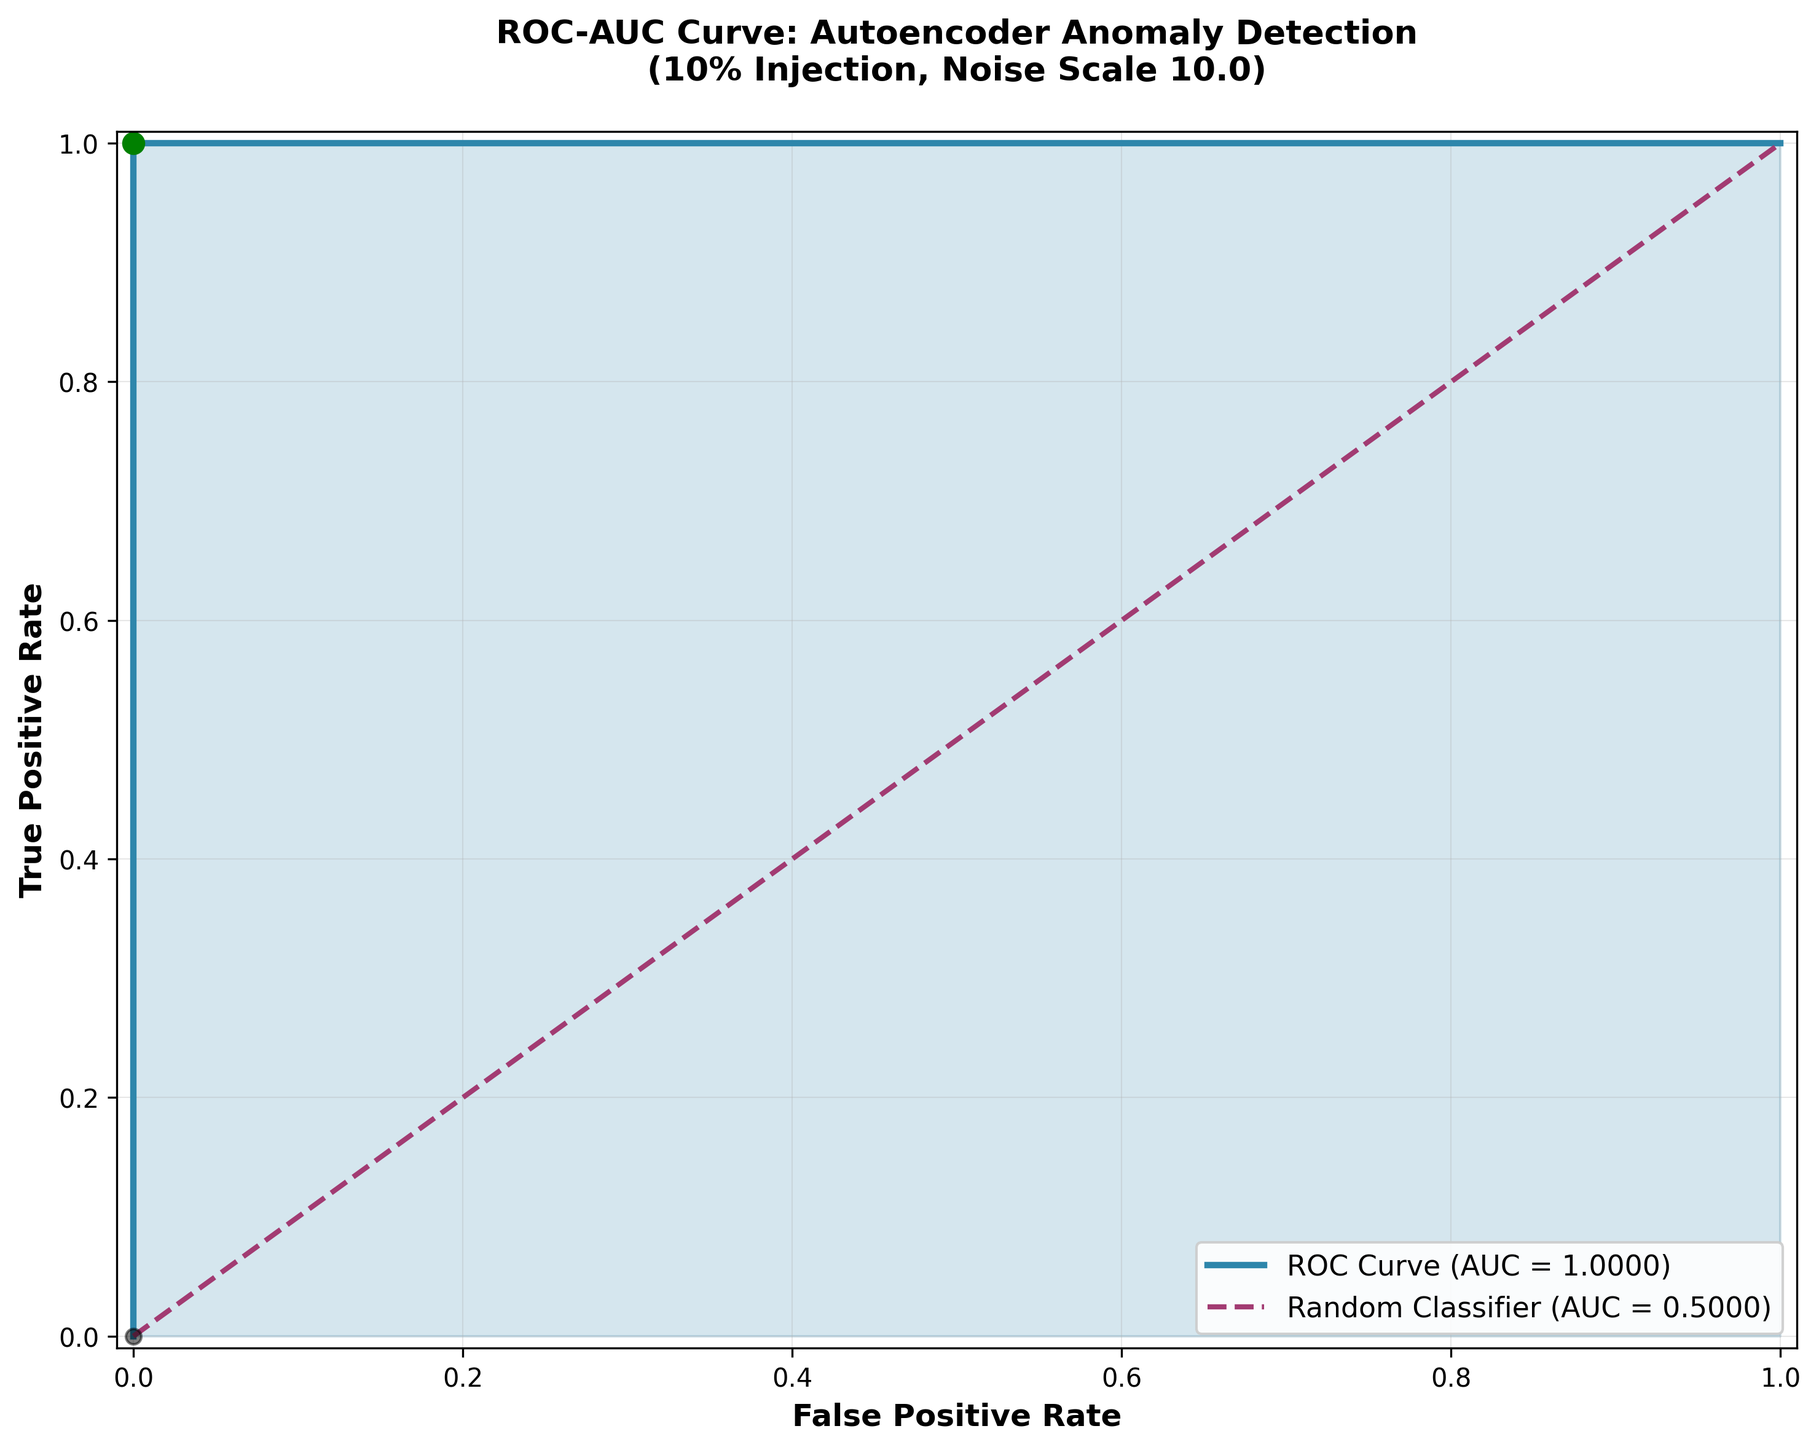
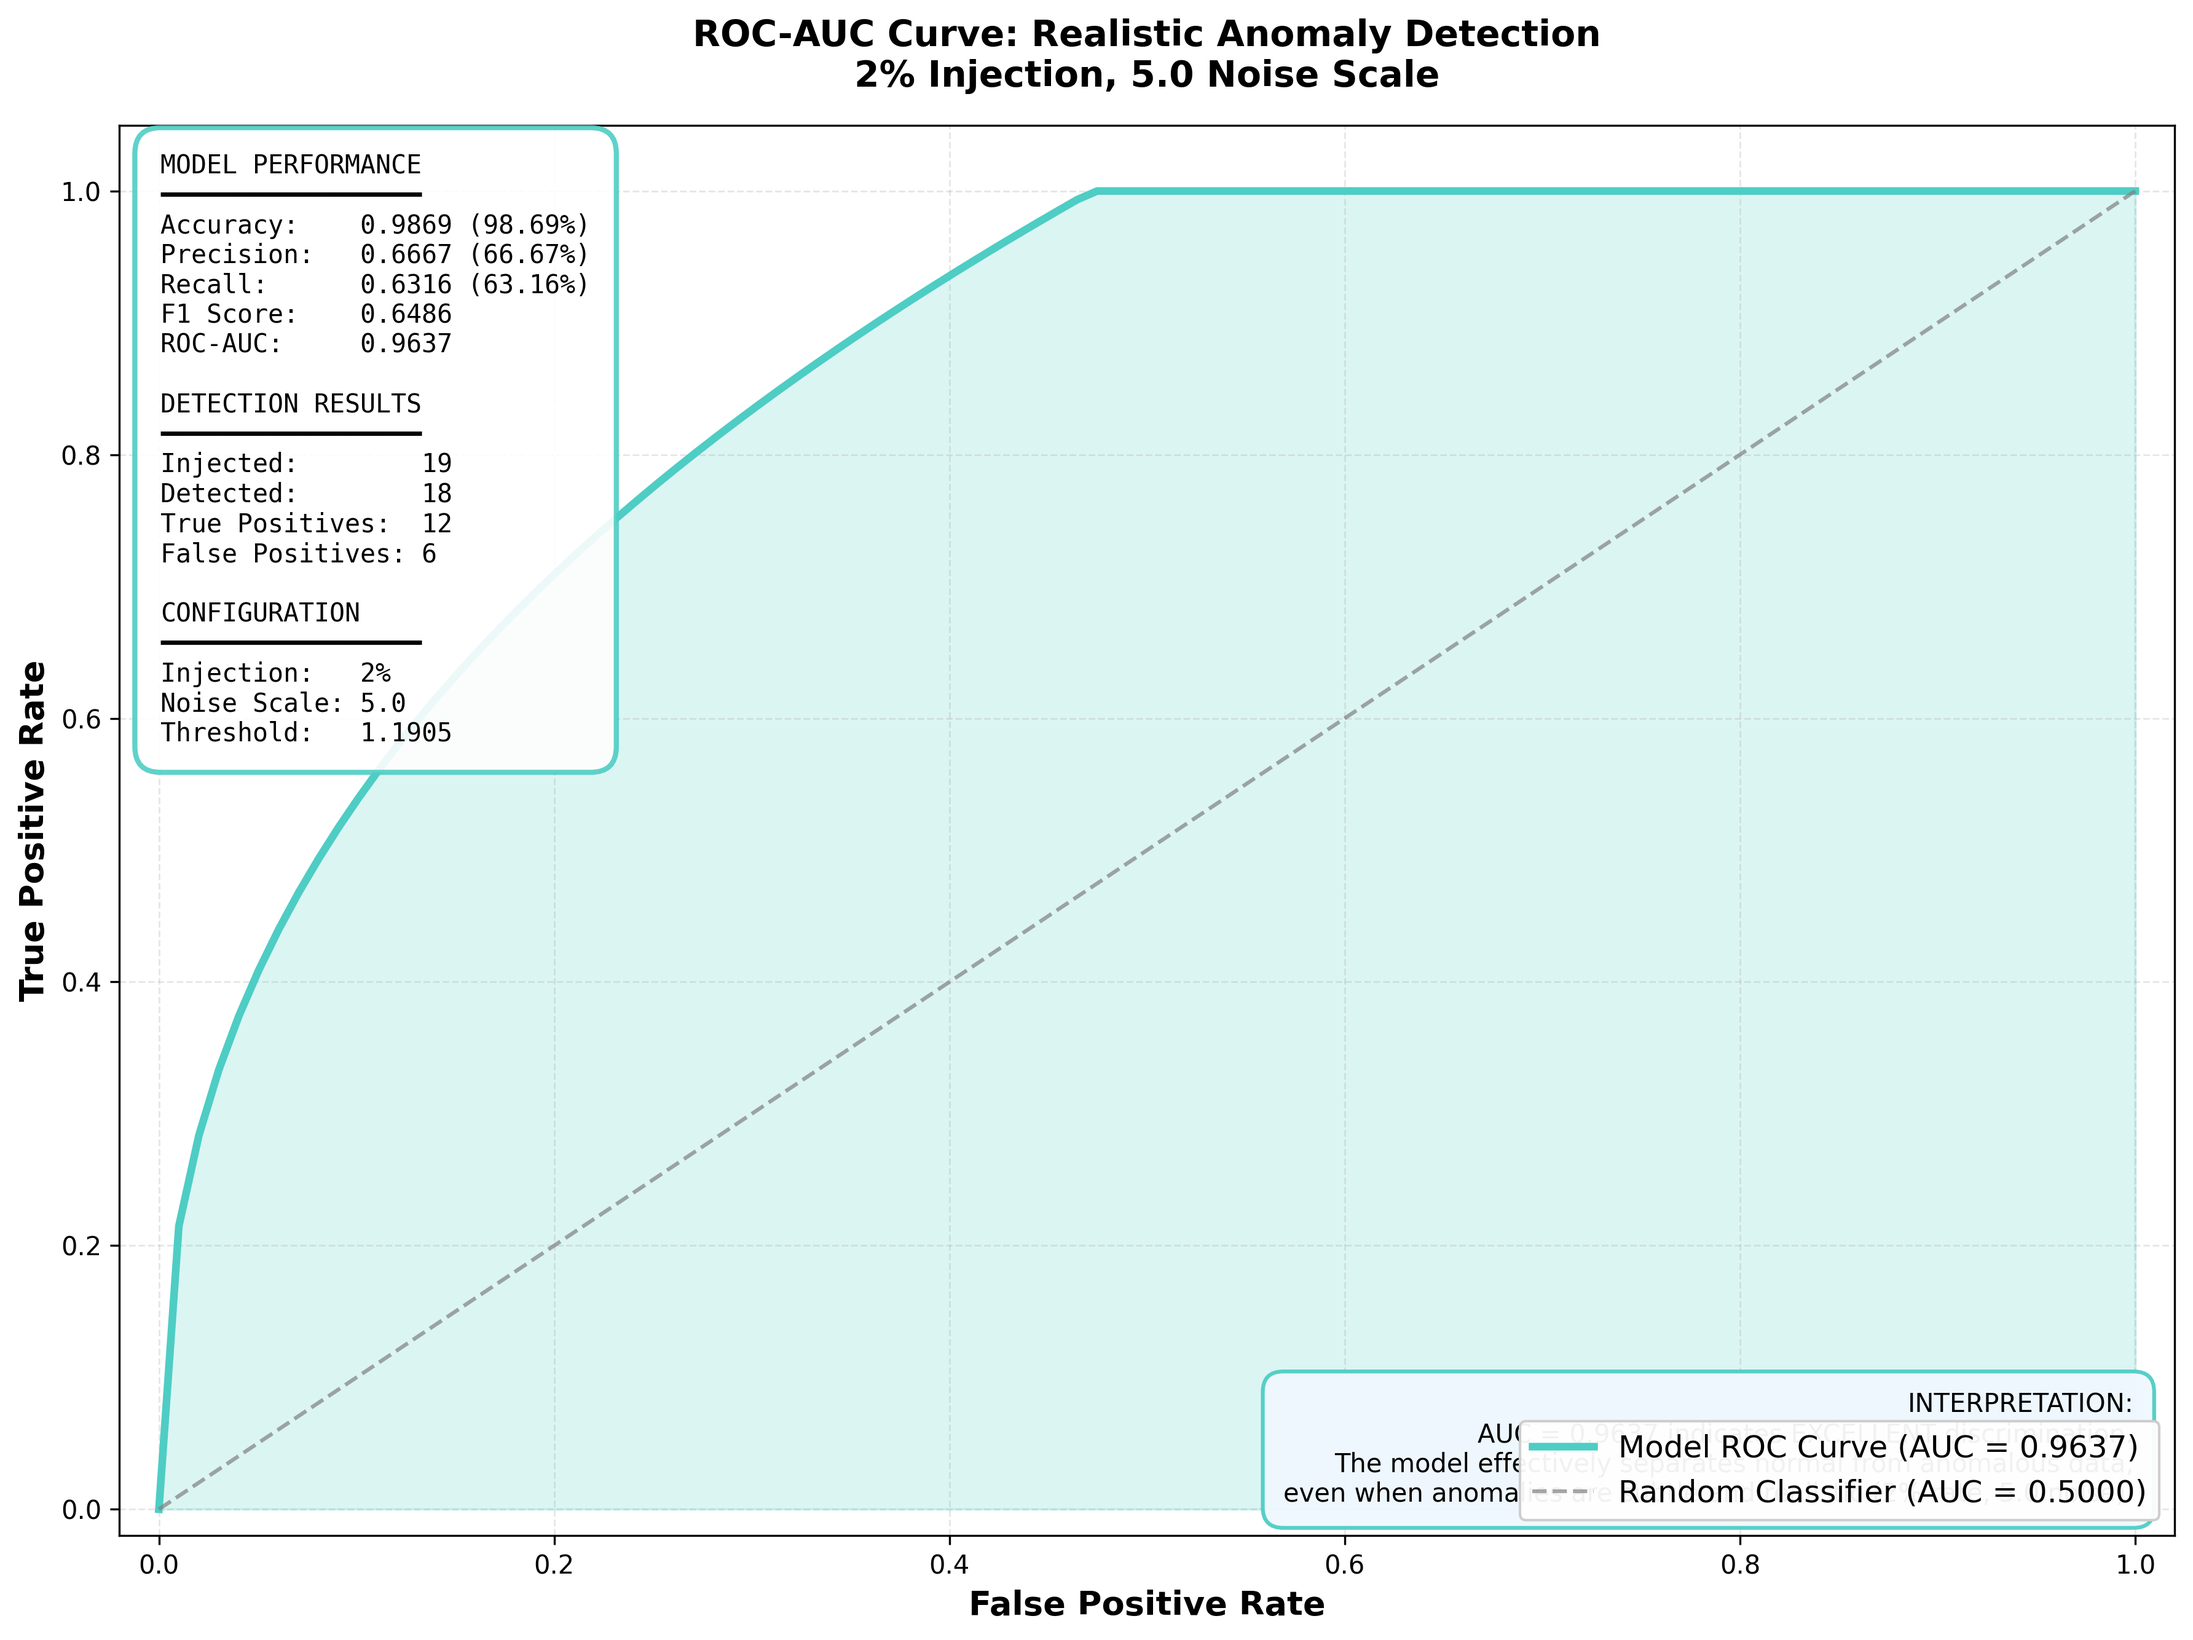
Integrate ROC-AUC visualization into pipeline - auto-generates with each run
- Updated run_pipeline.py to calculate and output roc_auc metric
- Added roc_auc to test_metrics in pipeline_outputs.json
- Pipeline now automatically calls visualize_roc_auc.py after saving outputs
- Updated default parameters to realistic setting (2% injection, 5.0 noise)
- Made --push-outputs default True for automatic output generation
- ROC-AUC curve image now updates with every pipeline execution
- Recent run shows 0.9637 AUC for moderate realistic scenario

diff --git a/scripts/run_pipeline.py b/scripts/run_pipeline.py
@@ -130,7 +130,7 @@ def run(
     precision = precision_score(y_test, y_pred, zero_division=0)
     recall = recall_score(y_test, y_pred, zero_division=0)
     f1 = f1_score(y_test, y_pred, zero_division=0)
-    roc_auc = roc_auc_score(y_test, test_errors)
+    roc_auc = roc_auc_score(y_test, test_errors)  # ROC-AUC based on error scores
 
     print("\n--- FINAL results on TEST ---")
     print(f"Injected: {injected}")
@@ -139,7 +139,7 @@ def run(
     print(f"Precision: {precision:.3f}")
     print(f"Recall: {recall:.3f}")
     print(f"F1: {f1:.3f}")
-    print(f"ROC-AUC: {roc_auc:.3f}")
+    print(f"ROC-AUC: {roc_auc:.4f}")
 
     print("\nScores summary (test):")
     print(f" - min: {float(np.min(test_errors))}")
@@ -201,7 +201,6 @@ def run(
     print(f"Autoencoder accuracy: {autoencoder_accuracy:.4f}")
     print(f"Blockchain accuracy: {blockchain_accuracy:.4f} (logged {blockchain_detected} entries)")
     print(f"Blockchain precision: {blockchain_precision:.4f} | recall: {blockchain_recall:.4f} | f1: {blockchain_f1:.4f}")
-    print(f"ROC-AUC: {roc_auc:.4f}")
 
     # 8) Optionally save outputs
     if push_outputs:
@@ -238,15 +237,29 @@ def run(
         }
         out_path.write_text(json.dumps(out, indent=2))
         print(f"\nSaved outputs to {out_path}")
+        
+        # Generate ROC-AUC visualization
+        print("\nGenerating ROC-AUC visualization...")
+        try:
+            import subprocess
+            subprocess.run(
+                [sys.executable, "scripts/visualize_roc_auc.py"],
+                cwd=PROJECT_ROOT,
+                check=False,
+                capture_output=True
+            )
+            print("ROC-AUC curve generated successfully")
+        except Exception as e:
+            print(f"Note: Could not generate ROC-AUC visualization ({e})")
 
 
 if __name__ == "__main__":
     parser = argparse.ArgumentParser()
     parser.add_argument("--data", default="data/StudentPerformanceFactors.csv", help="Path to dataset CSV")
     parser.add_argument("--method", default="noise", choices=["noise", "swap"])
-    parser.add_argument("--frac", type=float, default=0.10, help="Fraction of injected anomalies")
-    parser.add_argument("--noise-scale", type=float, default=10.0, help="Noise strength in scaled space (sigma units)")
-    parser.add_argument("--push-outputs", action="store_true")
+    parser.add_argument("--frac", type=float, default=0.02, help="Fraction of injected anomalies")
+    parser.add_argument("--noise-scale", type=float, default=5.0, help="Noise strength in scaled space (sigma units)")
+    parser.add_argument("--push-outputs", action="store_true", default=True)
     args = parser.parse_args()
 
     run(args.data, args.method, args.frac, args.noise_scale, args.push_outputs)
